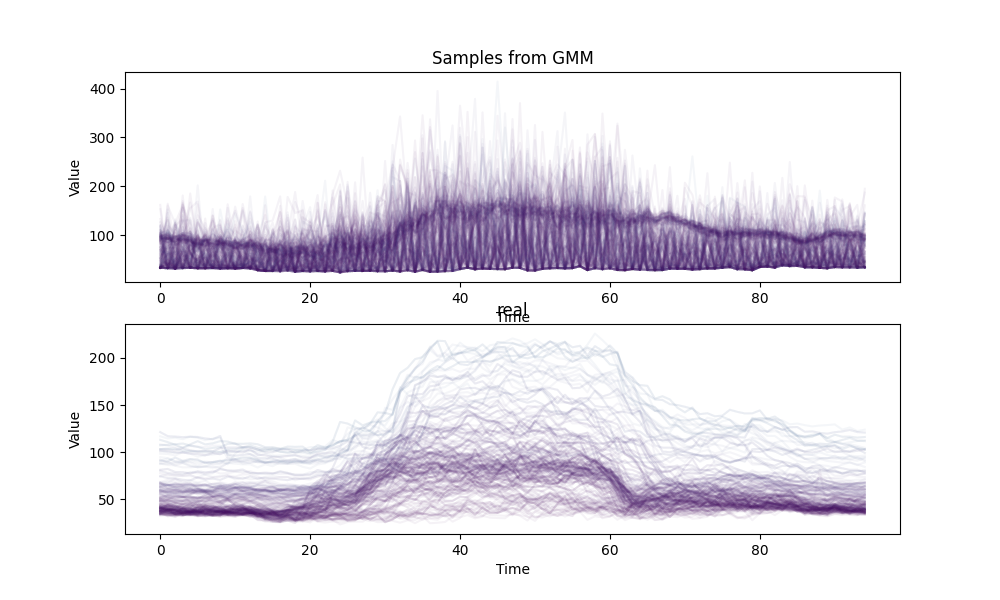
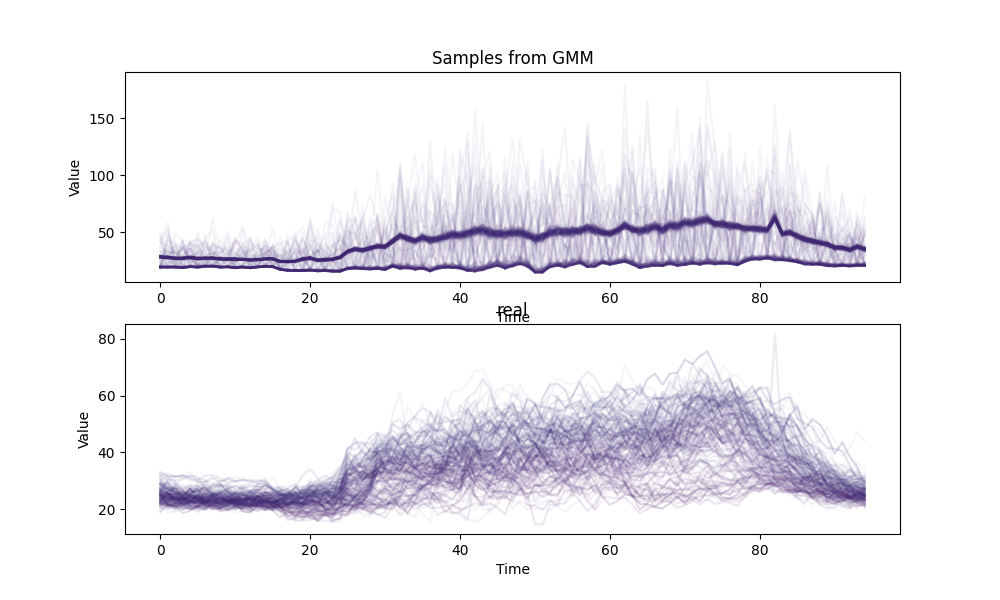
new

diff --git a/exp/exp_second_round/eva/evatransformer/sample_from_mainmodel.py b/exp/exp_second_round/eva/evatransformer/sample_from_mainmodel.py
@@ -24,30 +24,43 @@ device = torch.device('cuda' if torch.cuda.is_available() else 'cpu')
 
 
 # Define the encoder parameters
+# random_sample_num = 96
+# n_components = 6    
+# chw = (1, random_sample_num,  97)
+# para_dim = n_components*2
+# hidden_d = 96*1
+# out_d = 96
+# n_heads = 2
+# mlp_ratio = 2
+# n_blocks = 2
+
 random_sample_num = 96
-n_components = 6    
+n_components = 3   
 chw = (1, random_sample_num,  97)
 para_dim = n_components*2
 hidden_d = 96*1
 out_d = 96
 n_heads = 2
-mlp_ratio = 2
-n_blocks = 2
+mlp_ratio = 4
+n_blocks = 3
 
 # Create the encoder model
 encoder = gmm_model.ViT_encodernopara(chw, hidden_d, out_d, n_heads, mlp_ratio, n_blocks).to(device)
 
 # load state dict of the model
-model_path = 'exp/exp_second_round/transformer_15minutes/model/transformer_encoder_96_251246.pth'
+# model_path = 'exp/exp_second_round/transformer_15minutes/model/transformer_encoder_96_251246.pth'
+model_path = 'exp/exp_second_round/transformer_15minutes/model/transformer_encoder_96_783090.pth'
 model = torch.load(model_path, map_location=device)
 encoder.load_state_dict(model)
 
 embedding_para = torch.nn.Embedding(n_components*2, 1).to(device)
 emb_empty_token = torch.nn.Embedding(1, chw[2]).to(device)
 
-path_embedding = 'exp/exp_second_round/transformer_15minutes/model/transformer_embedding_96_251246.pth'
+# path_embedding = 'exp/exp_second_round/transformer_15minutes/model/transformer_embedding_96_251246.pth'
+path_embedding = 'exp/exp_second_round/transformer_15minutes/model/transformer_embedding_96_783090.pth'
 emb_weight = torch.load(path_embedding, map_location=device, weights_only=False)
-path_empty = 'exp/exp_second_round/transformer_15minutes/model/transformer_emb_empty_token_96_251246.pth'
+# path_empty = 'exp/exp_second_round/transformer_15minutes/model/transformer_emb_empty_token_96_251246.pth'
+path_empty = 'exp/exp_second_round/transformer_15minutes/model/transformer_emb_empty_token_96_783090.pth'
 empty_token_vec = torch.load(path_empty, map_location=device,weights_only=False)
 
 # load data
@@ -86,9 +99,9 @@ for _random_num in [4, 8, 16, 32]:
     _new_para = encoder.output_adding_layer(_new_para, _param)
 
     mean = _new_para[:, :n_components* 96].view(-1, n_components, 96) 
-    mean = mean + torch.randn(mean.shape).to(device) * 0.01
+    # mean = mean + torch.randn(mean.shape).to(device) * 0.01
     cov = _new_para[:, n_components* 96:].view(-1, n_components, 96)
-    cov = cov + torch.randn(cov.shape).to(device) * 0.01
+    # cov = cov + torch.randn(cov.shape).to(device) * 0.01
 
     # recover the scale
     recovered_test_data = test_data[:, :, :-1].clone() * (max_test_data -min_test_data+1e-15) + min_test_data
